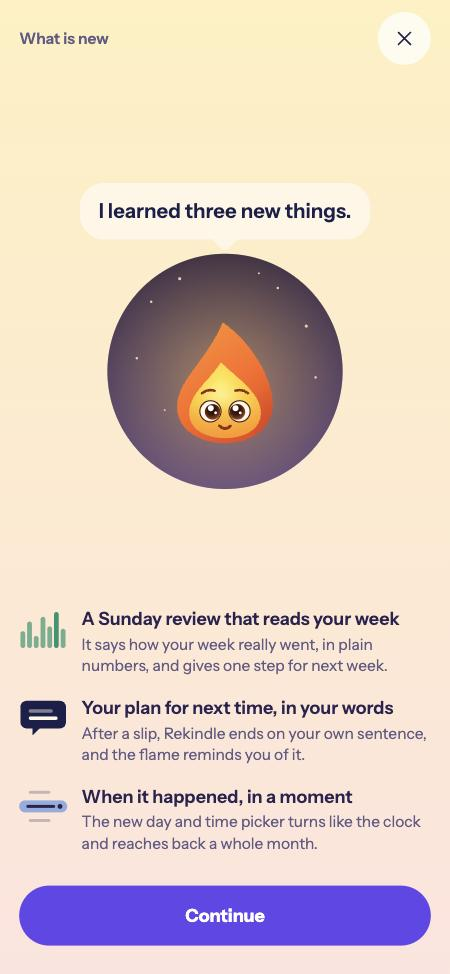
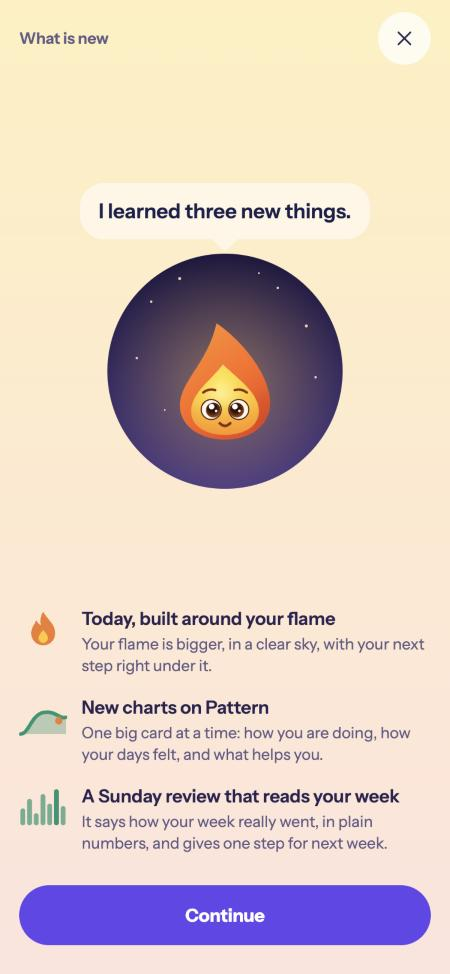
What's new leads with the home page, the charts and the glass tab bar, by the owner's word; the glass bar only on an iPhone

diff --git a/packages/core/src/whats-new.ts b/packages/core/src/whats-new.ts
@@ -10,34 +10,37 @@ import { tipQuiet } from './support';
 import type { Days, Settings } from './types';
 
 /** the picture beside an item: the flame by default, or a small drawing of the part it is about */
-export type NewArt = 'flame' | 'week' | 'plan' | 'when';
+export type NewArt = 'flame' | 'chart' | 'tabs' | 'week' | 'plan' | 'when';
 
 export interface NewItem {
   t: string;
   line: string;
   art?: NewArt;
+  /** only on an iPhone (the glass tab bar is Apple's own; Android and the web draw their own bar) */
+  ios?: boolean;
 }
 
-/** newest version first. Each version names what people would notice most, in the order the page shows them. */
+/** newest version first. Each version names what people would notice most, in the order the page shows them: the first three show,
+    and the rest stand in when one is not for this phone. The first entry speaks to people coming from 1.2.1, the version
+    live before it, so it leads with what 1.3.0 changed (the owner, November 2, 2026). */
 export const WHATS_NEW: { v: string; items: NewItem[] }[] = [
   {
     v: '1.3.1',
     items: [
+      { t: 'Today, built around your flame', line: 'Your flame is bigger, in a clear sky, with your next step right under it.', art: 'flame' },
+      { t: 'New charts on Pattern', line: 'One big card at a time: how you are doing, how your days felt, and what helps you.', art: 'chart' },
+      {
+        t: 'A glass bar at the bottom',
+        line: 'The tabs sit on glass now, the way the iPhone draws its own, with SOS in its own circle.',
+        art: 'tabs',
+        ios: true,
+      },
       {
         t: 'A Sunday review that reads your week',
         line: 'It says how your week really went, in plain numbers, and gives one step for next week.',
         art: 'week',
       },
-      {
-        t: 'Your plan for next time, in your words',
-        line: 'After a slip, Rekindle ends on your own sentence, and the flame reminds you of it.',
-        art: 'plan',
-      },
-      {
-        t: 'When it happened, in a moment',
-        line: 'The new day and time picker turns like the clock and reaches back a whole month.',
-        art: 'when',
-      },
+      { t: 'Your plan for next time, in your words', line: 'After a slip, Rekindle ends on your own sentence, and the flame reminds you of it.', art: 'plan' },
     ],
   },
 ];
@@ -59,11 +62,12 @@ export function verCmp(a: string, b: string): number {
 }
 
 /** what was added after `seen`, up to and including `now`: the newest version first, NEW_MAX items at most */
-export function newSince(seen: string, now: string, list = WHATS_NEW): NewItem[] {
+export function newSince(seen: string, now: string, list = WHATS_NEW, ios = true): NewItem[] {
   return [...list]
     .filter((e) => verCmp(e.v, seen) > 0 && verCmp(e.v, now) <= 0)
     .sort((a, b) => verCmp(b.v, a.v))
     .flatMap((e) => e.items)
+    .filter((x) => ios || !x.ios)
     .slice(0, NEW_MAX);
 }
 
@@ -78,6 +82,8 @@ export interface NewNear {
   back: boolean;
   /** something else is on the screen or about to open: a page, a sheet, a celebration, Welcome back, graduation */
   busy: boolean;
+  /** an iPhone (or iPad), where the items marked ios belong */
+  ios?: boolean;
 }
 
 /** what to do on this open: `keep` records the version with nothing shown, `show` opens the page (and records the version
@@ -90,7 +96,7 @@ export function whatsNew(seen: string | null, now: string, near: NewNear, list =
   if (!near.st) return seen === now ? { k: 'none' } : { k: 'keep' };
   const from = seen ?? NEW_BASE;
   if (verCmp(from, now) >= 0) return seen === now ? { k: 'none' } : { k: 'keep' };
-  const items = newSince(from, now, list);
+  const items = newSince(from, now, list, near.ios ?? true);
   if (!items.length) return { k: 'keep' };
   if (near.busy || near.back || newQuiet(near.days, near.st, near.now, near.sos)) return { k: 'wait' };
   return { k: 'show', items };

diff --git a/apps/mobile/src/app/whats-new.tsx b/apps/mobile/src/app/whats-new.tsx
@@ -18,6 +18,8 @@ import { useStore } from '@/lib/store';
 import { useTheme } from '@/lib/theme';
 import { whatsNewItems } from '@/lib/whats-new';
 
+/* the flame's own orange, as the big flame draws it, in both themes */
+const FLAME = '#F07A2E';
 const COUNT = ['', '', 'two new things', 'three new things'];
 
 export default function WhatsNew() {
@@ -69,7 +71,7 @@ export default function WhatsNew() {
 }
 
 /* a small drawing of the part each new thing is about, at its own size: the week's seven days, the person's sentence,
-   the turning wheel, or the flame */
+   the turning wheel, the hill of the first chart, the glass bar with SOS, or the flame */
 function ItemArt({ k }: { k: NewArt }) {
   const c = useTheme();
   if (k === 'week')
@@ -91,6 +93,24 @@ function ItemArt({ k }: { k: NewArt }) {
       </Svg>
     );
   }
+  if (k === 'chart')
+    return (
+      <Svg width={40} height={32} viewBox="0 0 40 32">
+        <Path d="M1 30C8 30 10 14 20 12s14 6 19 4v14z" fill={c.mint} opacity={0.35} />
+        <Path d="M1 30C8 30 10 14 20 12s14 6 19 4" stroke={c.mint} strokeWidth={3} strokeLinecap="round" fill="none" />
+        <Path d="M33 14c1 2 3 3 3 5a3 3 0 0 1-6 0c0-1.5 1-2 1.5-3 .5 1 1 1 1.5 1-.3-1 0-2 0-3z" fill={FLAME} />
+      </Svg>
+    );
+  if (k === 'tabs')
+    return (
+      <Svg width={40} height={32} viewBox="0 0 40 32">
+        <Rect x={0} y={10} width={27} height={14} rx={7} fill={c.ink} opacity={0.14} />
+        <Circle cx={7} cy={17} r={2} fill={c.ink} />
+        <Circle cx={13.5} cy={17} r={2} fill={c.ink} opacity={0.4} />
+        <Circle cx={20} cy={17} r={2} fill={c.ink} opacity={0.4} />
+        <Circle cx={34} cy={17} r={6} fill={c.coral} />
+      </Svg>
+    );
   if (k === 'when')
     return (
       <Svg width={40} height={32} viewBox="0 0 40 32">
@@ -103,7 +123,8 @@ function ItemArt({ k }: { k: NewArt }) {
     );
   return (
     <Svg width={40} height={32} viewBox="0 0 40 32">
-      <Path d="M20 2c3 6 10 10 10 18a10 10 0 0 1-20 0c0-5 3-7 4-11 2 3 3 4 4 4-1-4 0-8 2-11z" fill={c.accent} />
+      <Path d="M20 2c3 6 10 10 10 18a10 10 0 0 1-20 0c0-5 3-7 4-11 2 3 3 4 4 4-1-4 0-8 2-11z" fill={FLAME} />
+      <Path d="M20 17c1.5 2.5 4 4 4 7a4 4 0 0 1-8 0c0-2.5 2-4 4-7z" fill="#FFC832" />
     </Svg>
   );
 }

diff --git a/apps/mobile/src/lib/whats-new.ts b/apps/mobile/src/lib/whats-new.ts
@@ -8,7 +8,7 @@ import { gradInfo, urLastAt, whatsNew, type NewItem } from '@daybook/core';
 import Constants from 'expo-constants';
 import { router, usePathname } from 'expo-router';
 import { useEffect, useRef, useState } from 'react';
-import { AppState } from 'react-native';
+import { AppState, Platform } from 'react-native';
 
 import { noteSheet, useCelebrating } from '@/components/celebrate';
 import { sheetOnTop } from '@/lib/nav';
@@ -59,7 +59,10 @@ export function useWhatsNew() {
   const st = snap.settings;
   const busy = path !== '/' || celebrating || (!!st && gradInfo(snap.days, st, tk).ready);
   const ver = appVersion();
-  const step = !ready || seen === undefined ? null : whatsNew(seen, ver, { st, days: snap.days, now, sos: urLastAt(sos.mem) ?? null, back, busy });
+  const step =
+    !ready || seen === undefined
+      ? null
+      : whatsNew(seen, ver, { st, days: snap.days, now, sos: urLastAt(sos.mem) ?? null, back, busy, ios: Platform.OS === 'ios' });
   const late = useRef<() => boolean>(() => false);
   late.current = () => Date.now() - openAt > WINDOW || celebrating || sheetOnTop();
 

diff --git a/packages/core/test/whats-new.test.ts b/packages/core/test/whats-new.test.ts
@@ -85,3 +85,14 @@ it('every entry is short, plain and has no contractions, with one to five items'
   expect([...vs].sort((a, b) => core.verCmp(b, a))).toEqual(vs);
   expect(core.verCmp(vs[vs.length - 1], core.NEW_BASE)).toBe(1);
 });
+
+it('an item for the iPhone only gives its place to the next one elsewhere', () => {
+  const l = [{ v: '1.4.0', items: [item('a'), { ...item('glass'), ios: true }, item('c'), item('d')] }];
+  expect(core.whatsNew('1.3.0', '1.4.0', near({ ios: true }), l)).toEqual({ k: 'show', items: [item('a'), { ...item('glass'), ios: true }, item('c')] });
+  expect(core.whatsNew('1.3.0', '1.4.0', near({ ios: false }), l)).toEqual({ k: 'show', items: [item('a'), item('c'), item('d')] });
+});
+
+it('the first entry leads with the home page, the charts and the glass bar', () => {
+  expect(core.newSince(core.NEW_BASE, '1.3.1', core.WHATS_NEW, true).map((x) => x.art)).toEqual(['flame', 'chart', 'tabs']);
+  expect(core.newSince(core.NEW_BASE, '1.3.1', core.WHATS_NEW, false).map((x) => x.art)).toEqual(['flame', 'chart', 'week']);
+});

diff --git a/docs/plan.md b/docs/plan.md
@@ -14,10 +14,12 @@ the person came back, and while a page, a sheet, a celebration, Welcome back or 
 skipped: only what is new since the last one seen, newest first, three at most. A build with no entry shows nothing.
 The day-feel question does not come on the same open.
 
-**The words (1.3.1, the owner said yes):** A Sunday review that reads your week. Your plan for next time, in your words.
-When it happened, in a moment. Left out on purpose: the new setup (people updating already did it) and the Obsidian
-journal (not marketed, by the owner's word above). The two lines were tightened after the first picture, so no line ends
-on one word.
+**The words (1.3.1), by the owner's correction:** the first page speaks to people coming from 1.2.1, the version live
+in the store, so it leads with what 1.3.0 changed: the redesigned home page, the new charts and the glass tab bar
+("that's the main stuff i wanna say"). Today, built around your flame. New charts on Pattern. A glass bar at the bottom
+(iPhone only: Android and the web draw their own bar, so there the Sunday review that reads your week takes its place).
+Your plan for next time, in your words, stands next in line. Left out on purpose: the new setup (people updating already did
+it) and the Obsidian journal (not marketed, by the owner's word above).
 
 **The page (`app/whats-new.tsx`):** the person's own flame, big, says "I learned three new things." in its bubble and
 leaps once; the three things rise in under it one by one, each with a small drawing of its part (the week's bars, the
@@ -25,7 +27,7 @@ person's sentence, the turning wheel); Continue at the bottom, and the X. No Not
 
 **The release step:** docs/launch.md, step 5, now says to write the entry for the build's exact version first.
 
-Pictures: `docs/whats-new/web-light.jpg` (web, light), `docs/whats-new/iphone.png` (a release build on the Daybook Craft
+Pictures: `docs/whats-new/web-light.jpg` (web, light, where the Sunday review stands in for the glass bar), `docs/whats-new/iphone.png` (a release build on the Daybook Craft
 simulator, after setting the version seen back to 1.3.0).
 
 **Steps (Opus effort):** rules and tests (medium, done), the page (medium, done), the release step (low, done), the web and
